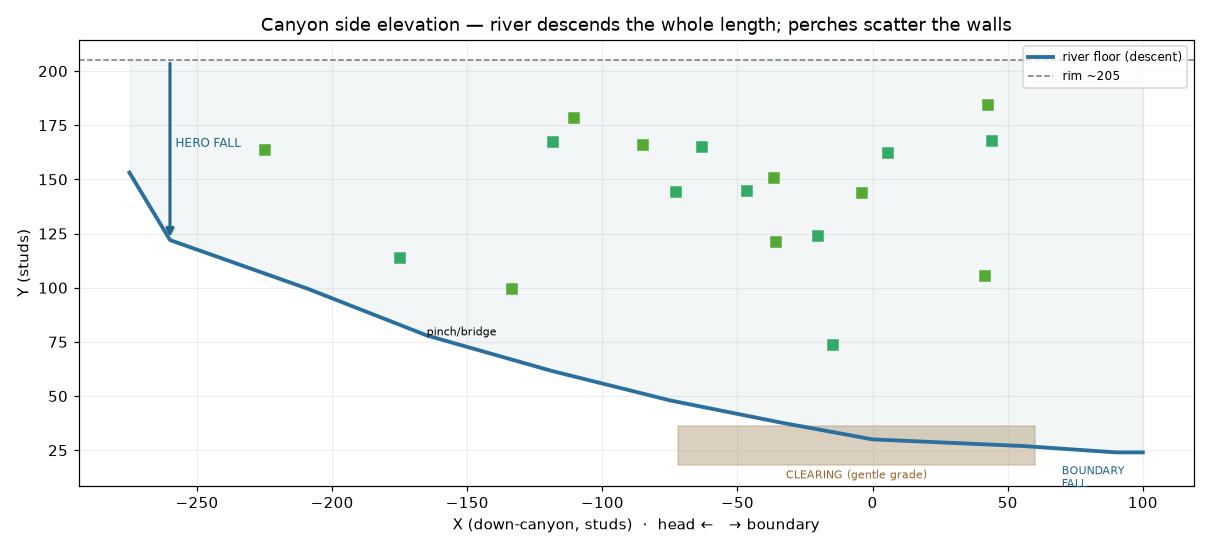
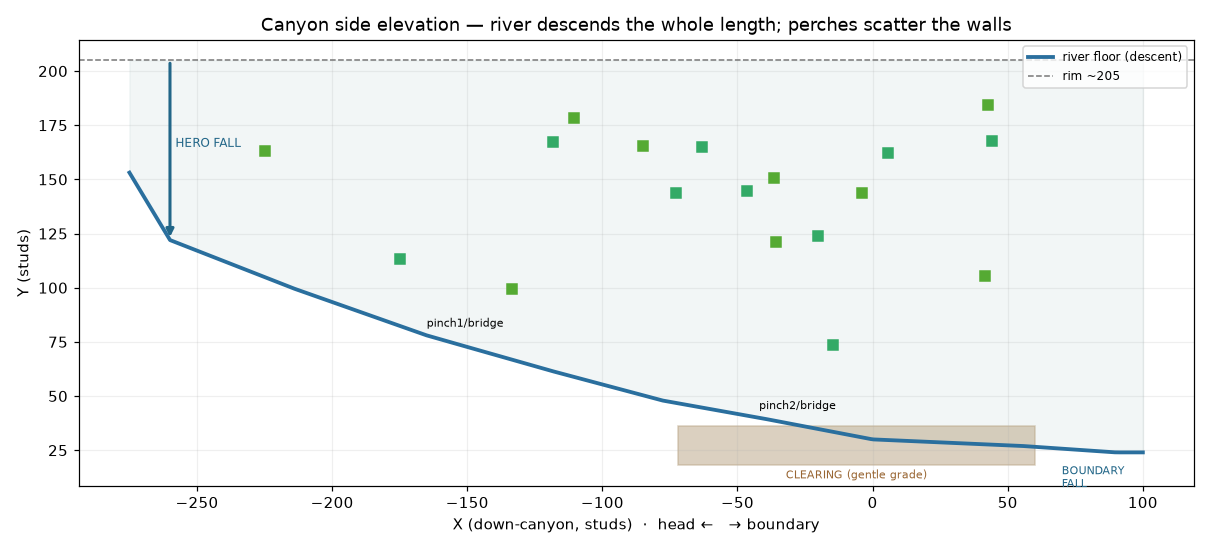
docs: canyon heightmap v2 — narrower gorge, two pronounced pinches, steeper walls
Reshaped the Phase 0 gorge as a stronger erosion starting point: innerHalf
narrowed across the spline with two sharp pinches (bridges at x -165 and x -42),
WALLRUN 46->30 for steeper walls. Same 440x260 region (Gaea scale unchanged).
Regenerated heightmap/footprint/elevation + CanyonLayout (2 bridges, narrower
clearing). Added gen_canyon.py for reproducibility.

diff --git a/docs/superpowers/canyon/gen_canyon.py b/docs/superpowers/canyon/gen_canyon.py
@@ -1,0 +1,236 @@
+#!/usr/bin/env python3
+"""Phase 0 packet generator for the ZenDojo canyon.
+Outputs: heightmap.png (16-bit), heightmap_preview.png (8-bit), footprint.png,
+elevation.png, CanyonLayout.luau, README.md  — into docs/superpowers/canyon/."""
+import math, os
+import numpy as np
+from PIL import Image
+import matplotlib
+matplotlib.use("Agg")
+import matplotlib.pyplot as plt
+from matplotlib.patches import Rectangle
+
+OUT = "/Users/jonlabrie/Desktop/ClaudeCode/Roshambo_26/docs/superpowers/canyon"
+os.makedirs(OUT, exist_ok=True)
+
+# ---- canyon model (contract) : X = axis (head -X .. boundary +X), Z = cross, Y up
+# origin (0,0) = clearing centre. control points: (x, floorY, innerHalf)
+# v2: narrower gorge, two PRONOUNCED pinches (bridges), steeper walls.
+CP = [
+    (-260, 122, 26),   # head plunge pool (hero fall lands here)
+    (-215, 100, 30),
+    (-165,  78, 11),   # PINCH 1 -> suspension bridge (above middle falls)
+    (-120,  62, 34),
+    (-78,   48, 38),
+    (-42,   40, 13),   # PINCH 2 -> bridge (just above the clearing)
+    (0,     30, 50),   # CLEARING centre (widest)
+    (55,    27, 40),
+    (90,    24, 30),   # boundary lip
+]
+RIM      = 205.0
+WALLRUN  = 30.0    # horizontal run of the steep wall (inner edge -> rim) — steeper
+RIVER_H  = 9.0     # incised central river groove half-width
+RIVER_CUT= 3.0
+MAXY     = 260.0   # heightmap maps world Y 0..MAXY -> 0..65535
+# square region centred to contain the gorge
+CX, CZ, HALF = -85.0, 0.0, 220.0   # centre + half-extent (studs)
+RES = 1024
+
+cpx = np.array([c[0] for c in CP], float)
+cpf = np.array([c[1] for c in CP], float)
+cpi = np.array([c[2] for c in CP], float)
+
+def floor_inner(x):
+    f = np.interp(x, cpx, cpf)
+    h = np.interp(x, cpx, cpi)
+    # head closure: ramp floor up to rim & pinch inner -> 0 just past the head
+    b = np.clip((cpx[0] - x) / 40.0, 0, 1)
+    f = f * (1 - b) + RIM * b
+    h = h * (1 - b)
+    return f, h
+
+def smoothstep(t):
+    t = np.clip(t, 0, 1); return t * t * (3 - 2 * t)
+
+# ---- heightmap ----
+xs = np.linspace(CX - HALF, CX + HALF, RES)          # cols -> X
+zs = np.linspace(CZ - HALF, CZ + HALF, RES)          # rows -> Z
+floorY_col, inner_col = floor_inner(xs)
+F = floorY_col[None, :] + np.zeros((RES, RES))
+I = inner_col[None, :] + np.zeros((RES, RES))
+D = np.abs(zs)[:, None] + np.zeros((RES, RES))
+
+wall = F + (RIM - F) * smoothstep((D - I) / WALLRUN)
+H = np.where(D <= I, F, wall)
+H = np.minimum(H, RIM)
+# incised river groove on the floor
+groove = np.where(D <= RIVER_H, RIVER_CUT * (1 - (D / RIVER_H) ** 2), 0.0)
+H = np.where(D <= I, H - groove, H)
+# subtle deterministic plateau texture so it isn't mathematically flat
+rng = np.random.default_rng(7)
+low = rng.standard_normal((32, 32))
+noise = np.array(Image.fromarray(low).resize((RES, RES), Image.BICUBIC))
+mask = smoothstep((D - (I + WALLRUN * 0.6)) / 30.0)
+H = H + noise * 2.2 * mask
+H = np.clip(H, 0, MAXY)
+
+u16 = (H / MAXY * 65535.0).astype(np.uint16)
+Image.fromarray(u16).save(f"{OUT}/heightmap.png")            # 16-bit, the import file
+Image.fromarray((H / MAXY * 255).astype(np.uint8)).save(f"{OUT}/heightmap_preview.png")
+
+# ---- deterministic perch anchors (~18) ----
+def frac(s):
+    v = math.sin(s * 12.9898) * 43758.5453; return v - math.floor(v)
+bases = [-210,-165,-120,-120,-75,-75,-35,-35,-35,0,0,0,55,55,55,-75,-120,-35]
+perches = []
+for k, bx in enumerate(bases):
+    side = -1 if k % 2 == 0 else 1
+    hf = 0.20 + frac(k * 3.1) * 0.62
+    if k % 6 == 0:
+        hf = 0.58 + frac(k * 1.7) * 0.34          # a few perched high
+    x = bx + (frac(k * 7) - 0.5) * 30
+    f, ih = floor_inner(np.array([x])); f, ih = float(f[0]), float(ih[0])
+    z = side * (ih + 4 + frac(k * 5) * 6)
+    y = f + (RIM - f) * hf
+    perches.append((f"Perch{k+1:02d}", round(x, 1), round(y, 1), round(z, 1),
+                    "L" if side < 0 else "R"))
+
+# ---- footprint (top-down) ----
+fig, ax = plt.subplots(figsize=(7, 9))
+fx = np.linspace(-275, 100, 400)
+ff, fih = floor_inner(fx)
+rim_edge = fih + WALLRUN
+ax.fill_betweenx(fx, -rim_edge, rim_edge, color="#9aa39a", alpha=0.5, label="rim span")
+ax.fill_betweenx(fx, -fih, fih, color="#b8a382", alpha=0.9, label="gorge floor")
+ax.plot([0, 0], [-275, 100], color="#2a6f9e", lw=2, label="river")
+ax.add_patch(Rectangle((-72, -40), 144, 100, fill=False, ec="#d77757", lw=2, ls="--"))
+ax.text(0, 10, "CLEARING\nshrine·bell·throw", ha="center", va="center", fontsize=8, color="#7a2")
+ax.plot([-13, 13], [-165, -165], color="k", lw=2); ax.text(22, -165, "PINCH 1→bridge", fontsize=7)
+ax.plot([-15, 15], [-42, -42], color="k", lw=2); ax.text(24, -42, "PINCH 2→bridge", fontsize=7)
+ax.text(0, -262, "HERO FALL (head)", ha="center", fontsize=7, color="#268")
+ax.text(0, 93, "BOUNDARY FALL", ha="center", fontsize=7, color="#268")
+for nm, x, y, z, s in perches:
+    ax.plot(z, x, "s", color="#5a3", ms=6)
+ax.set_xlabel("Z (cross-canyon, studs)"); ax.set_ylabel("X (down-canyon, studs)")
+ax.set_title("Canyon footprint (top-down)\norigin=clearing centre · green=teahouse perches")
+ax.set_aspect("equal"); ax.invert_yaxis(); ax.legend(loc="lower right", fontsize=7)
+ax.grid(alpha=0.2); plt.tight_layout(); plt.savefig(f"{OUT}/footprint.png", dpi=110); plt.close()
+
+# ---- side elevation ----
+fig, ax = plt.subplots(figsize=(11, 5))
+ax.plot(fx, ff, color="#2a6f9e", lw=2.5, label="river floor (descent)")
+ax.axhline(RIM, color="#777", ls="--", lw=1, label="rim ~205")
+ax.fill_between(fx, ff, RIM, color="#cdd", alpha=0.25)
+# hero fall + boundary fall
+ax.annotate("", xy=(-260, 122), xytext=(-260, RIM), arrowprops=dict(arrowstyle="-|>", color="#268", lw=2))
+ax.text(-258, 165, "HERO FALL", fontsize=8, color="#268")
+ax.annotate("", xy=(96, -5), xytext=(90, 24), arrowprops=dict(arrowstyle="-|>", color="#268", lw=2))
+ax.text(70, 8, "BOUNDARY\nFALL", fontsize=7, color="#268")
+ax.add_patch(Rectangle((-72, 18), 132, 18, color="#b8a382", alpha=0.5))
+ax.text(-6, 12, "CLEARING (gentle grade)", ha="center", fontsize=7, color="#963")
+for nm, x, y, z, s in perches:
+    ax.plot(x, y, "s", color=("#5a3" if s == "L" else "#3a6"), ms=6)
+ax.text(-165, 82, "pinch1/bridge", fontsize=7); ax.text(-42, 44, "pinch2/bridge", fontsize=7)
+ax.set_xlabel("X (down-canyon, studs)  ·  head ←   → boundary")
+ax.set_ylabel("Y (studs)"); ax.set_title("Canyon side elevation — river descends the whole length; perches scatter the walls")
+ax.legend(loc="upper right", fontsize=8); ax.grid(alpha=0.2)
+plt.tight_layout(); plt.savefig(f"{OUT}/elevation.png", dpi=110); plt.close()
+
+# ---- CanyonLayout.luau (the coordinate contract) ----
+def perch_lua():
+    out = []
+    for nm, x, y, z, s in perches:
+        out.append(f'        {{ name = "{nm}", pos = {{ {x}, {y}, {z} }}, wall = "{s}", facingCenter = true }},')
+    return "\n".join(out)
+
+luau = f'''--!strict
+-- ZenDojo CANYON coordinate contract (Phase 0, 2026-06-15). DRAFT — not wired into
+-- genmodels yet. Units: 1 = 1 stud, Y up. Origin (0,0,0) = CLEARING CENTRE.
+-- X = down-canyon axis (head at -X, boundary at +X). Z = cross-canyon (centre 0).
+-- Terrain is authored EXTERNALLY (Gaea/Blender) to this same frame; prop Y values
+-- below are PROVISIONAL (from the greybox model) and get re-snapped onto the
+-- imported terrain by a raycast pass before building. See README.md.
+local CanyonLayout = {{
+    meta = {{
+        units = "stud", origin = "clearing-centre",
+        heightmapRegion = {{ size = {2*HALF:.0f}, centre = {{ {CX:.0f}, {CZ:.0f} }} }}, -- square, studs (X,Z)
+        heightRange = {{ 0, {MAXY:.0f} }}, -- heightmap 0..65535 maps world Y 0..{MAXY:.0f}
+        rim = {RIM:.0f}, wallRun = {WALLRUN:.0f},
+    }},
+    -- river spline down the gorge: each point {{ x, floorY, innerHalf }} (floor descends)
+    river = {{
+{chr(10).join(f"        {{ {c[0]}, {c[1]}, {c[2]} }}," for c in CP)}
+    }},
+    clearing = {{ centre = {{ 0, 30, 0 }}, xRange = {{ -50, 50 }}, outcropHalf = 44, poolHalf = 16 }},
+    falls = {{
+        hero = {{ x = -260, topY = {RIM:.0f}, botY = 122 }},      -- tallest, at the head
+        boundary = {{ x = 90, topY = 24, botY = -5 }},   -- view-only edge (no further)
+        cascadeX = {{ -215, -165, -120, -78, -42 }},     -- intermediate drops between pools
+    }},
+    bridges = {{
+        {{ kind = "suspension", x = -165 }}, -- pinch 1, above the middle falls
+        {{ kind = "suspension", x = -42 }},  -- pinch 2, just above the clearing
+    }},
+    -- ~18 organic cliff-perch teahouses (stilted kake-zukuri). Y PROVISIONAL (snap to terrain).
+    perches = {{
+{perch_lua()}
+    }},
+    -- machinery near the clearing, fed by the fall spilling in just above it (short flume)
+    machinery = {{
+        shrine = {{ pos = {{ 14, 30, 18 }}, facingCenter = true }},
+        bell   = {{ pos = {{ 14, 44, 18 }} }},
+        wheel  = {{ pos = {{ -18, 31, 2 }}, note = "undershot, in the in-spilling fall" }},
+        flume  = {{ from = {{ -34, 34, -2 }}, to = {{ -18, 32, 2 }} }}, -- short run
+        sozu   = {{ pos = {{ -6, 30, -10 }} }},
+    }},
+}}
+return CanyonLayout
+'''
+open(f"{OUT}/CanyonLayout.luau", "w").write(luau)
+
+# ---- README ----
+readme = f"""# ZenDojo Canyon — Phase 0 packet
+
+Coordinate contract for the canyon. **Author terrain to this exact frame** so the
+code-placed props snap onto it later.
+
+## Frame
+- 1 unit = 1 stud, Y up. Origin (0,0,0) = **clearing centre**.
+- **X** = down-canyon axis: head (hero fall) at **x=-260**, boundary at **x=+90**.
+- **Z** = cross-canyon, centred on 0.
+- Rim ≈ y{RIM:.0f}; floor descends y122 (head) → y24 (clearing/boundary).
+
+## heightmap.png  (the import file — 16-bit grayscale, {RES}×{RES})
+- Covers a **square {2*HALF:.0f}×{2*HALF:.0f} stud** region centred at world (X={CX:.0f}, Z={CZ:.0f}).
+  → region X [{CX-HALF:.0f}, {CX+HALF:.0f}], Z [{CZ-HALF:.0f}, {CZ+HALF:.0f}].
+- White (65535) = world Y **{MAXY:.0f}**; black (0) = Y **0**. So set the terrain's
+  vertical scale to **{MAXY:.0f} studs** over the {2*HALF:.0f}-stud region.
+- Image axes: **width = X** (head at LEFT), **height = Z** (top = Z={CZ-HALF:.0f}).
+- `heightmap_preview.png` is an 8-bit copy just for eyeballing.
+
+## Using it in Gaea
+1. New build → drop a **File/Heightmap Import** node, load `heightmap.png` as the base.
+2. Erode/sculpt the rock character on top (Erosion, Stratify, etc.). The base already
+   has the gorge channel, the descent, the pinch, and the clearing — keep those readable.
+   (Heightmaps can't do overhangs; add those in Blender later if you want them.)
+3. Export a 16-bit heightmap (Route A: → Roblox Terrain importer) **or** a decimated
+   mesh (Route B: → Blender cleanup → MeshPart). Keep the **same region size + height
+   scale** so the contract holds.
+
+## Using it in Roblox (Route A, voxel)
+Terrain Editor → Import → heightmap.png, set region size **({2*HALF:.0f}, {MAXY:.0f}, {2*HALF:.0f})** studs,
+position the region so its centre is world (X={CX:.0f}, 0, Z={CZ:.0f}). Pick a base material.
+
+## CanyonLayout.luau
+The prop contract (river spline, clearing, falls, bridge pinch, ~18 perches, machinery).
+Prop **Y values are provisional** — once your terrain is imported, I run a raycast-snap
+pass to set each prop's real Y + surface normal, then regenerate the builders.
+
+## Footprint / Elevation
+`footprint.png` (top-down) and `elevation.png` (side) document the intended shape so
+your Gaea sculpt matches — especially the **descent profile** and the **pinch**.
+"""
+open(f"{OUT}/README.md", "w").write(readme)
+
+print("wrote:", sorted(os.listdir(OUT)))
+print(f"height range built: {H.min():.1f}..{H.max():.1f}  perches: {len(perches)}")
